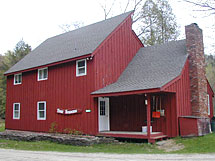
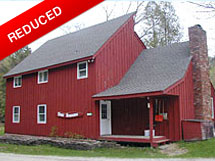
Modified pricing on pgs 1-3
Added reduced tags to 3 images

diff --git a/sales.html b/sales.html
@@ -101,7 +101,7 @@
 						<div class="title">EXCLUSIVELY LISTED..................$425,000</div>         </td>
           <td><h3 class="title">The Lodges</h3>
 						<p>Ski in, ski out from this 3-Bedroom 3-Bath luxurious slope-side condo with an open floor plan, high ceilings, hardwood floors,  kitchen w/island, cherry cabinets & granite counters, living room w/gas FP, and master bedroom with gas FP & whirlpool tub.   Great custom mudroom and storage for all your ski gear.  This tastefully-furnished & equipped condo is located closest to the ski lift.  The Lodges at Killington offers a full sports & recreation center, indoor/outdoor pool and hot tubs, ice skating, cross-country skiing and snowshoeing. </p>
-<div class="title">EXCLUSIVELY LISTED...........................$445,000</div>
+<div class="title">EXCLUSIVELY LISTED...........................$425,000</div>
 					</td>
         </tr>
         <tr valign="top"> 
@@ -115,7 +115,7 @@
         <tr valign="top" class="description">
           <td><h3 class="title">Edgemont Condo</h3>
 						<p>Great year-round views from this nicely maintained, fully-furnished & equipped 2-level <br> 3-Bedroom, 1.5 Bath condominium with wood-burning fireplace  and two decks.  Ski home from Snowshed & take shuttle bus to lifts. Motivated Seller.</p>
-						<div class="title">PRICED TO SELL......................$160,000</div>
+						<div class="title">PRICED TO SELL......................$155,000</div>
 					</td>
           <td><h3 class="title">Killington Contemporary</h3>
 						<p>This multi-level 3-Bedroom, 2-Bath home has a nice updated kitchen and living room with lovely stone fireplace. A large private deck is ideal for summer entertaining. Bright & cheerful on a well-landscaped lot.</p>

diff --git a/sales3.html b/sales3.html
@@ -92,12 +92,12 @@
         </tr>
         <tr valign="top" class="description">
           <td><h3 class="title">Pico Village Square</h3>
-						<p>Walk to Pico's lifts and ski home from this 1-Bedroom fully furnished condominium with wood-burning fireplace & this view of the trails. Ski locker on entry level. Elevator.</p>
+						<p>Walk to Pico's lifts and ski home from this 1-Bedroom fully furnished condominium with wood-burning fireplace & this view of the trails. Ski locker on entry level. Elevator.</p><br/>
             <div class="title">EXCLUSIVELY LISTED..................$93,000</div>          
           </td>
           <td><h3 class="title">Pittsfield Camp</h3>
 						<p>This very accessible 2-Bedroom home is close to VAST snowmobile trails. Living room has cathedral ceilings and a Vermont Castings Woodstove. This vacation getaway can be easily winterized and is fully furnished & equipped.</p>
-            <div class="title">EXCLUSIVELY LISTED..................$110,000</div>          
+            <div class="title">EXCLUSIVELY LISTED..................$88,000</div>          
           </td>
         </tr>
         <tr valign="top"> 

diff --git a/sales2.html b/sales2.html
@@ -98,7 +98,7 @@
         <tr valign="top" class="description">
           <td><h3 class="title">WOW! 8 bedrooms, 3 baths</h3>
 						<p>On the Ottaqueechee River less than a mile from Killington's Skyeship Base. Living room with cathedral ceilings, fieldstone fireplace &  lovely river views. Great ski house for a large group or extended family. Nicely updated, fully furnished & lots of parking.</p>
-            <div class="title">EXCLUSIVELY LISTED..................$248,800</div>          
+            <div class="title">EXCLUSIVELY LISTED..................$238,800</div>          
           </td>
           <td><h3 class="title">Robinwood Home</h3>
 						<p>Enjoy the Robinwood neighborhood in this 4-BR, 3-Bath home, ideal as a vacation ski house or primary residence (located in the Barstow school district).  This fully-furnished house has a great hot tub room, level access and is located across from Pico Ski Resort and just minutes to Killington's lifts. Strong rental history.</p>

diff --git a/countrystore.html b/countrystore.html
@@ -73,7 +73,7 @@
           <td align="left">
           	<h3 class="title">Location, Location, Location</h3>
           	<p>At the crossroads of Vermont, Bill's Country Store has THE best location in the State of Vermont. The main level has 3,000 Sq. Ft. of retail space with walk-in cooler. The basement is the same size with 13' ceilings. There is a large apartment on the 3rd level and additional storage space. The owners encourage reasonable offers.</p>
-						<div class="title">RECENTLY LOWERED..................$798,000</div>
+						<div class="title">RECENTLY LOWERED..................$695,000</div>
           </td>
         </tr>
         <tr valign="top"> 
